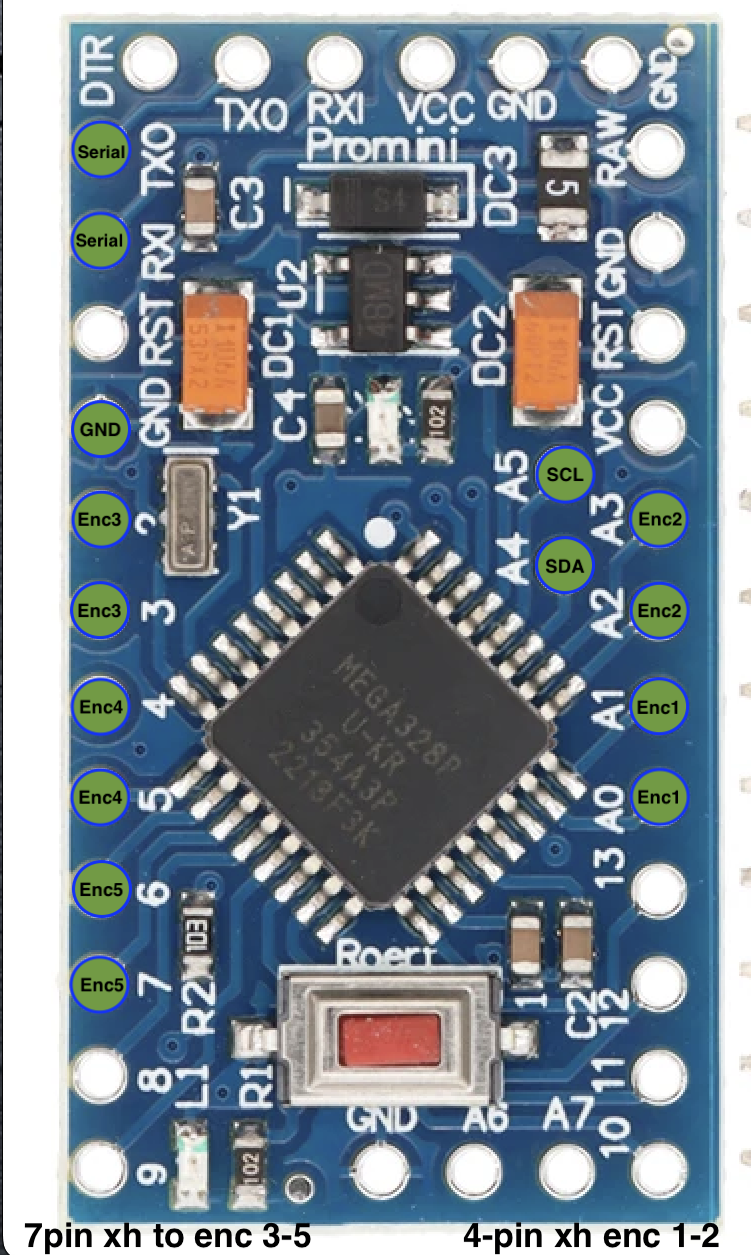
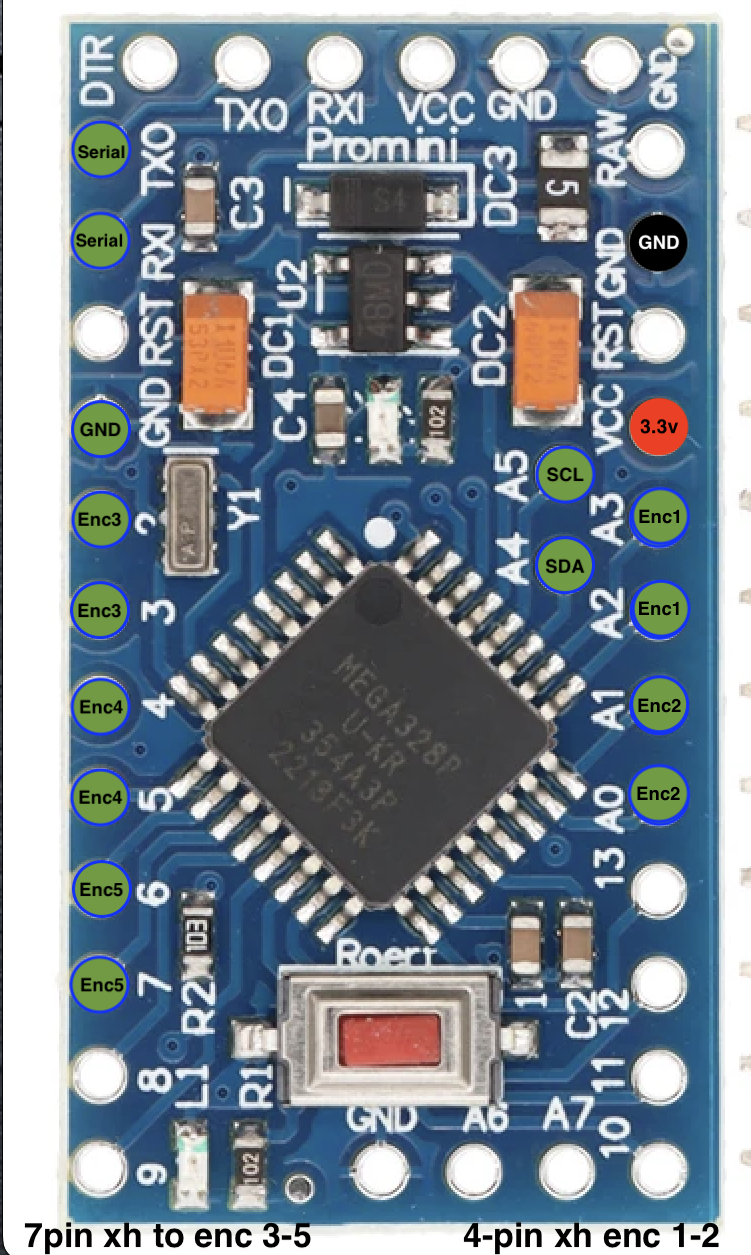
fixed pin order

Changed region(s): [[0.8269, 0.3108, 0.9188, 0.4972], [0.8269, 0.5283, 0.9188, 0.6526], [0.8269, 0.1554, 0.9188, 0.2175]]

diff --git a/src/main.cpp b/src/main.cpp
@@ -21,9 +21,10 @@ void handleEncoders();
 
 const uint8_t startEncoder = ((ENCODER_GROUP - 1) * NUM_ENCODERS) + 1;
 
+// Pins setup to be wired from top to bottom on the physical Atmega device
 const int enc_pins[NUM_ENCODERS][2] = {
-  {A0, A1},
-  {A2, A3},
+  {A3, A2},
+  {A1, A0},
   {2, 3},
   {4, 5},
   {6, 7}
